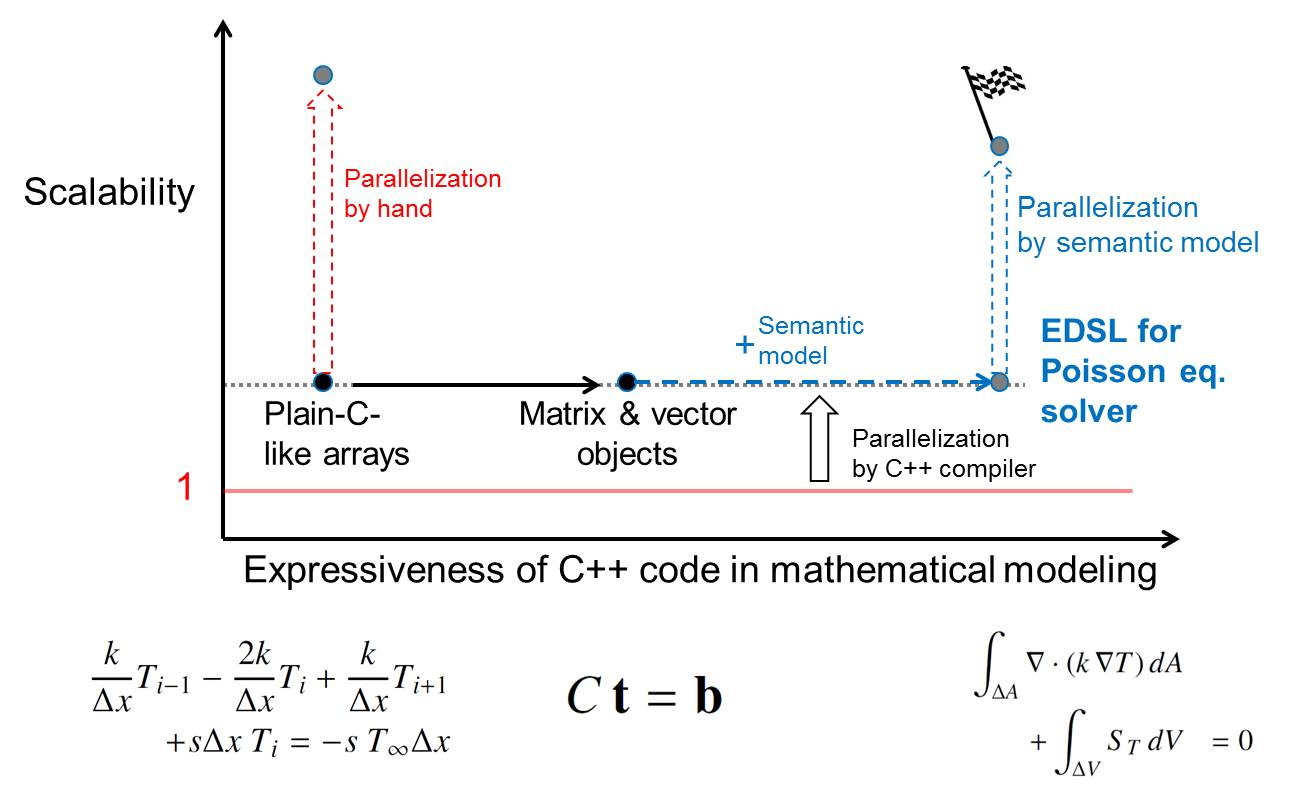
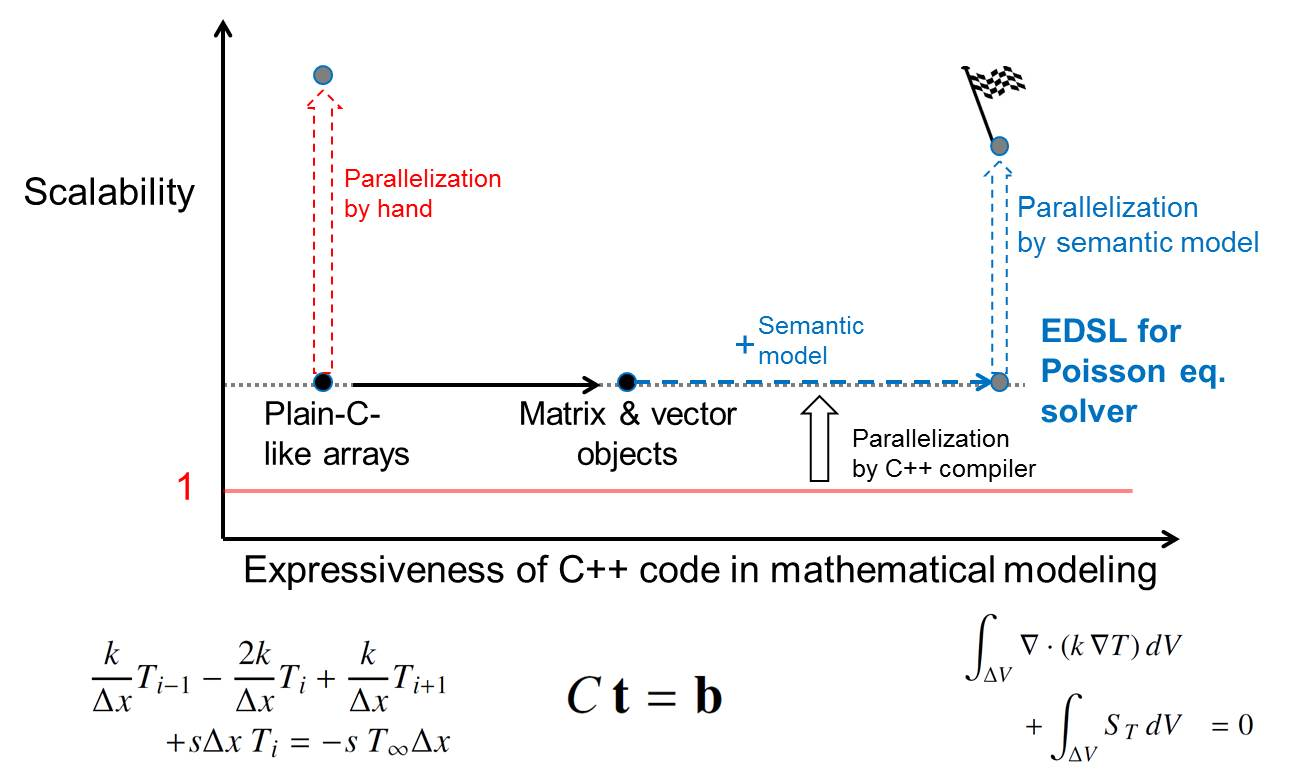
weak form formula corrected

diff --git a/doc/source/equations.tex b/doc/source/equations.tex
@@ -63,14 +63,14 @@ accelerating finite volume method with Boost.Proto}
 
 拡散方程式
 
-グリッド内の検査体積 \(\Delta V\)、その境界面\(\Delta A\)ごとに積分
+グリッド内の検査体積 \(\Delta V\)(、その境界面\(\Delta A\))ごとに積分
 
 
 %\[ \int_{\Delta A} {\bf \nabla} \cdot ( \Gamma \,  {\bf \nabla} \phi )\, dA + \int_{\Delta V} S_\phi \,dV  = 0 \]
-\[ \int_{\Delta A} {\bf \nabla} \cdot ( k \,  {\bf \nabla} T )\, dA + \int_{\Delta V} S_T \,dV  = 0 \]
+\[ \int_{\Delta V} {\bf \nabla} \cdot ( k \,  {\bf \nabla} T )\, dV + \int_{\Delta V} S_T \,dV  = 0 \]
 
 \begin{eqnarray}
- \int_{\Delta A} {\bf \nabla} \cdot ( k \,  {\bf \nabla} T )\, dA & \\
+ \int_{\Delta V} {\bf \nabla} \cdot ( k \,  {\bf \nabla} T )\, dV & \\
 +  \int_{\Delta V} S_T \,dV &  = 0  \\ 
 \end{eqnarray}
 
